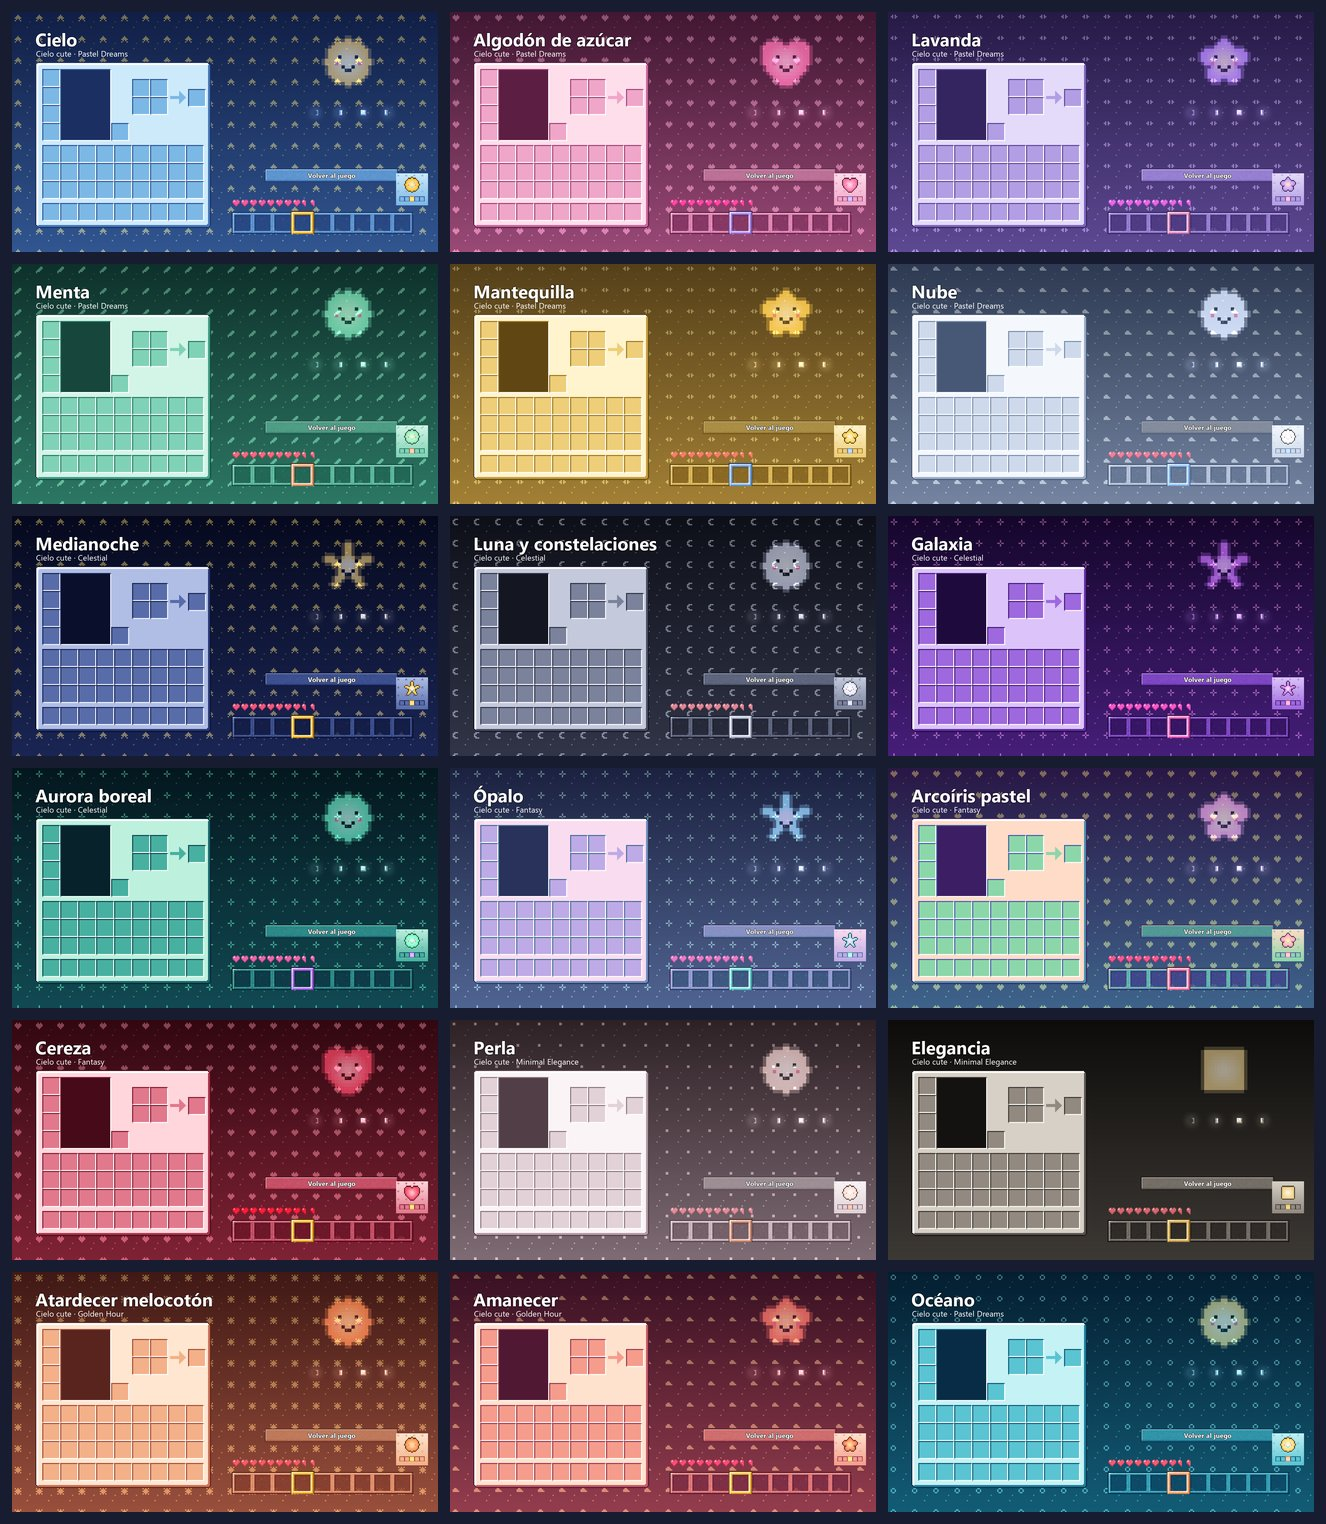
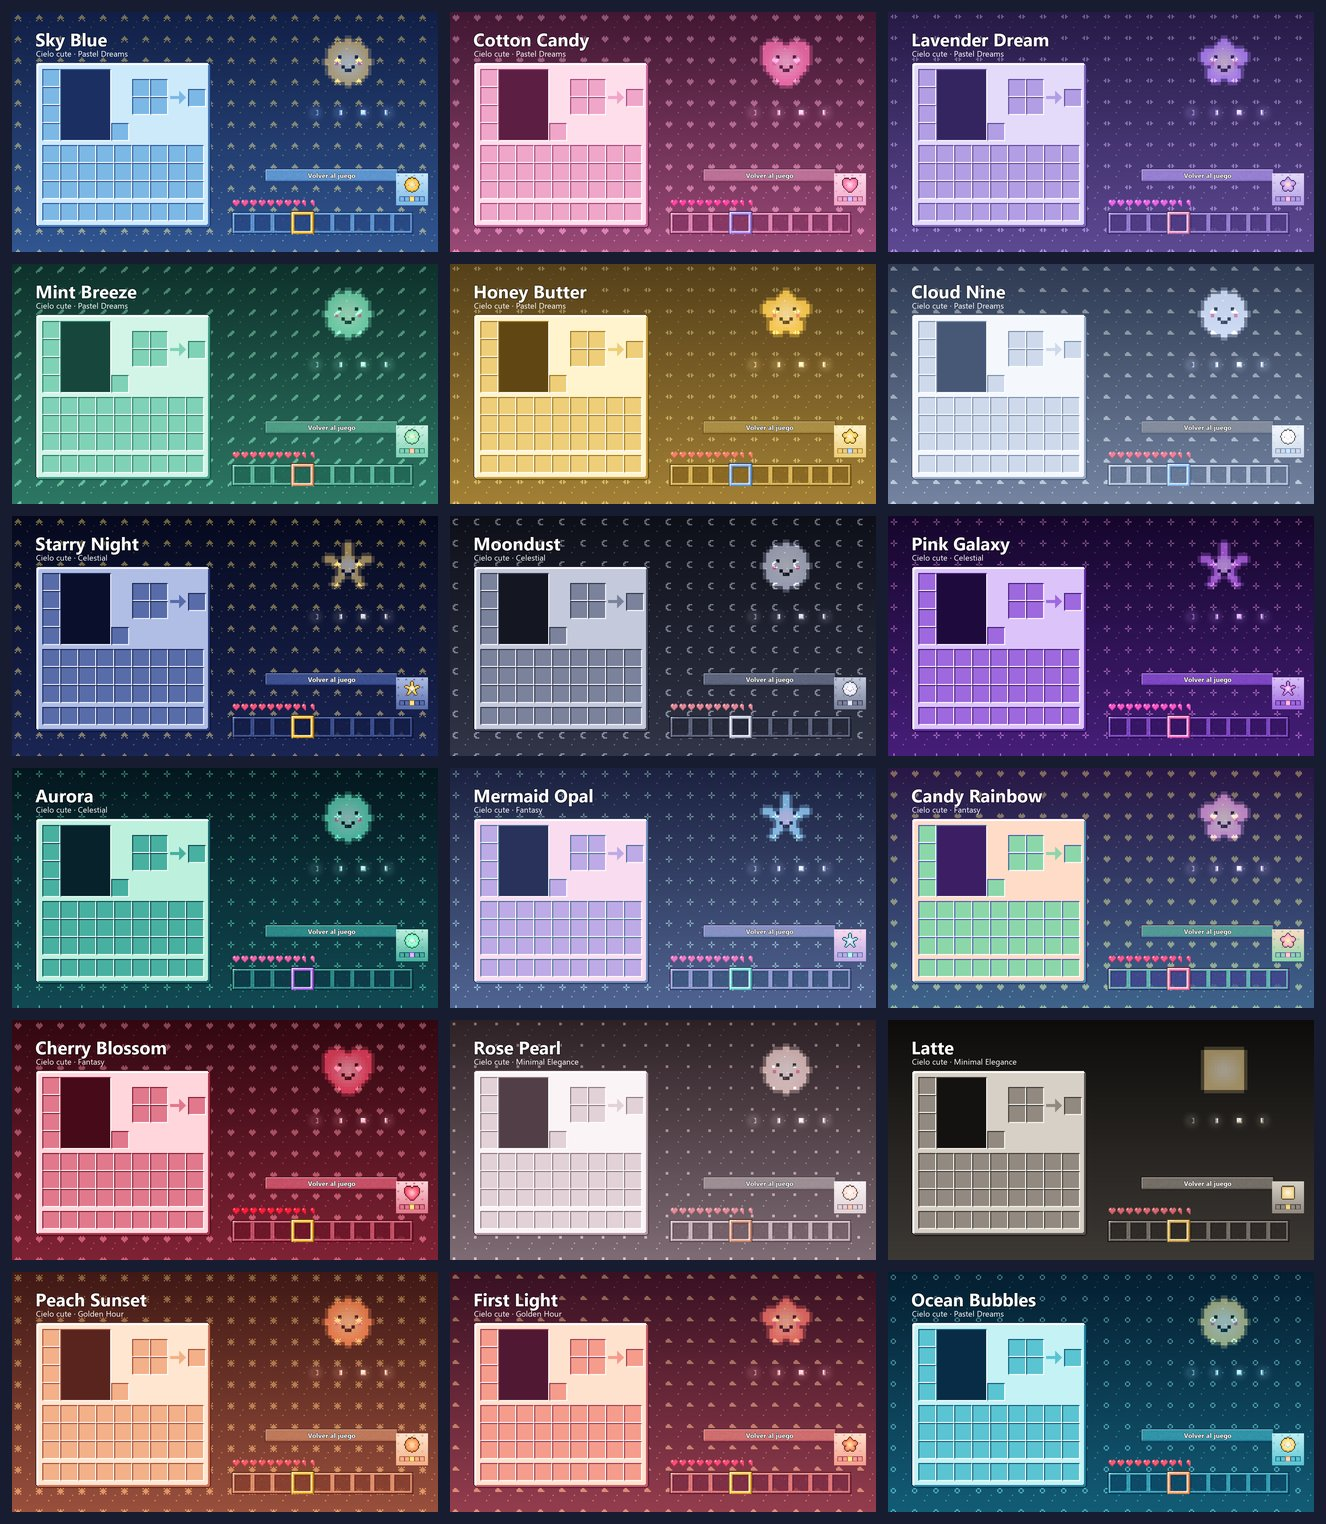
Cielo cute: nombres nuevos de los temas

diff --git a/cielo-cute/index.html b/cielo-cute/index.html
@@ -72,7 +72,7 @@
 <p class="pj-intro" lang="es">Un paquete de texturas que cambia el gris de la interfaz de Minecraft por colores de cielo. Hay 18 temas en 5 colecciones (Pastel Dreams, Celestial, Fantasy, Minimal Elegance y Golden Hour), y cada uno trae su sol con carita, una luna a juego y un dibujito en el fondo de los menús. No toca los bloques ni los objetos.</p>
 <p class="pj-intro" lang="en">A resource pack that swaps Minecraft's grey interface for sky colors. There are 18 themes in 5 collections (Pastel Dreams, Celestial, Fantasy, Minimal Elegance and Golden Hour), each with its own smiling sun, a matching moon and a little pattern behind the menus. Blocks and items stay the same.</p>
             <div class="feats">
-                <div class="card feat"><svg class="feat-star"><use href="#star"/></svg><h3><span lang="es">18 temas</span><span lang="en">18 themes</span></h3><p lang="es">Del rosa algodón de azúcar al azul medianoche, cada uno con su personalidad.</p>
+                <div class="card feat"><svg class="feat-star"><use href="#star"/></svg><h3><span lang="es">18 temas</span><span lang="en">18 themes</span></h3><p lang="es">De Cotton Candy a Starry Night, cada uno con su personalidad.</p>
 <p lang="en">From cotton candy pink to midnight blue, each with its own personality.</p></div>
                 <div class="card feat"><svg class="feat-star"><use href="#star"/></svg><h3><span lang="es">Sol con carita</span><span lang="en">Smiling sun</span></h3><p lang="es">Redondo, corazón, estrella o flor según el tema, y la luna a juego.</p>
 <p lang="en">Round, heart, star or flower depending on the theme, with a matching moon.</p></div>
@@ -86,10 +86,10 @@
         <section class="pj-gallery">
             <h2><svg class="h-star"><use href="#star"/></svg><span lang="es">Más fotos</span><span lang="en">More pictures</span></h2>
             <div class="gallery">
-                <figure><img src="../img/cielo-cute-galaxia.jpg" alt="Tema Galaxia dentro del juego" loading="lazy"><figcaption>Galaxia</figcaption></figure>
-                <figure><img src="../img/cielo-cute-algodon.jpg" alt="Tema Algodón de azúcar dentro del juego" loading="lazy"><figcaption>Algodón de azúcar</figcaption></figure>
-                <figure><img src="../img/cielo-cute-medianoche.jpg" alt="Tema Medianoche dentro del juego" loading="lazy"><figcaption>Medianoche</figcaption></figure>
-                <figure><img src="../img/cielo-cute-menta.jpg" alt="Tema Menta dentro del juego" loading="lazy"><figcaption>Menta</figcaption></figure>
+                <figure><img src="../img/cielo-cute-pink-galaxy.jpg" alt="Tema Pink Galaxy dentro del juego" loading="lazy"><figcaption>Pink Galaxy</figcaption></figure>
+                <figure><img src="../img/cielo-cute-cotton-candy.jpg" alt="Tema Cotton Candy dentro del juego" loading="lazy"><figcaption>Cotton Candy</figcaption></figure>
+                <figure><img src="../img/cielo-cute-starry-night.jpg" alt="Tema Starry Night dentro del juego" loading="lazy"><figcaption>Starry Night</figcaption></figure>
+                <figure><img src="../img/cielo-cute-mint-breeze.jpg" alt="Tema Mint Breeze dentro del juego" loading="lazy"><figcaption>Mint Breeze</figcaption></figure>
             </div>
         </section>
 
